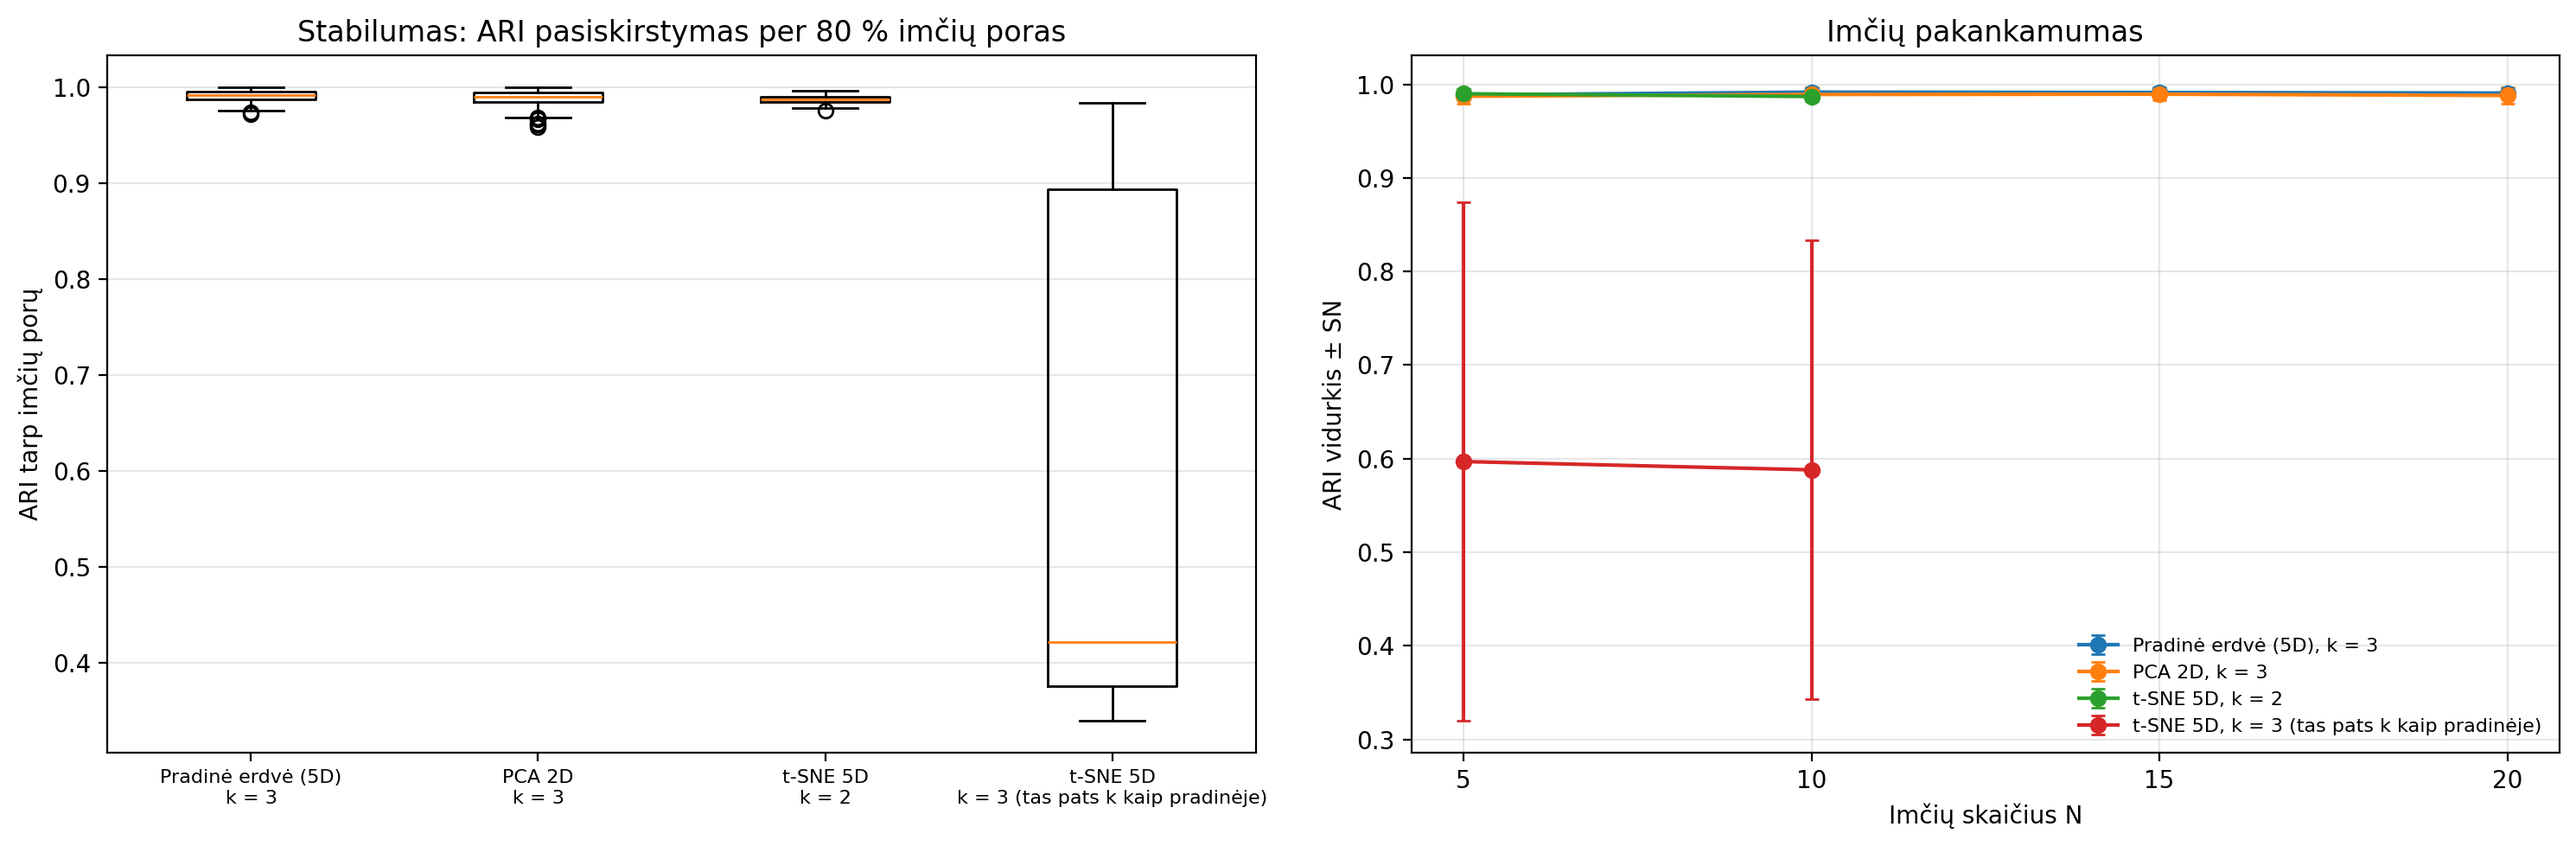
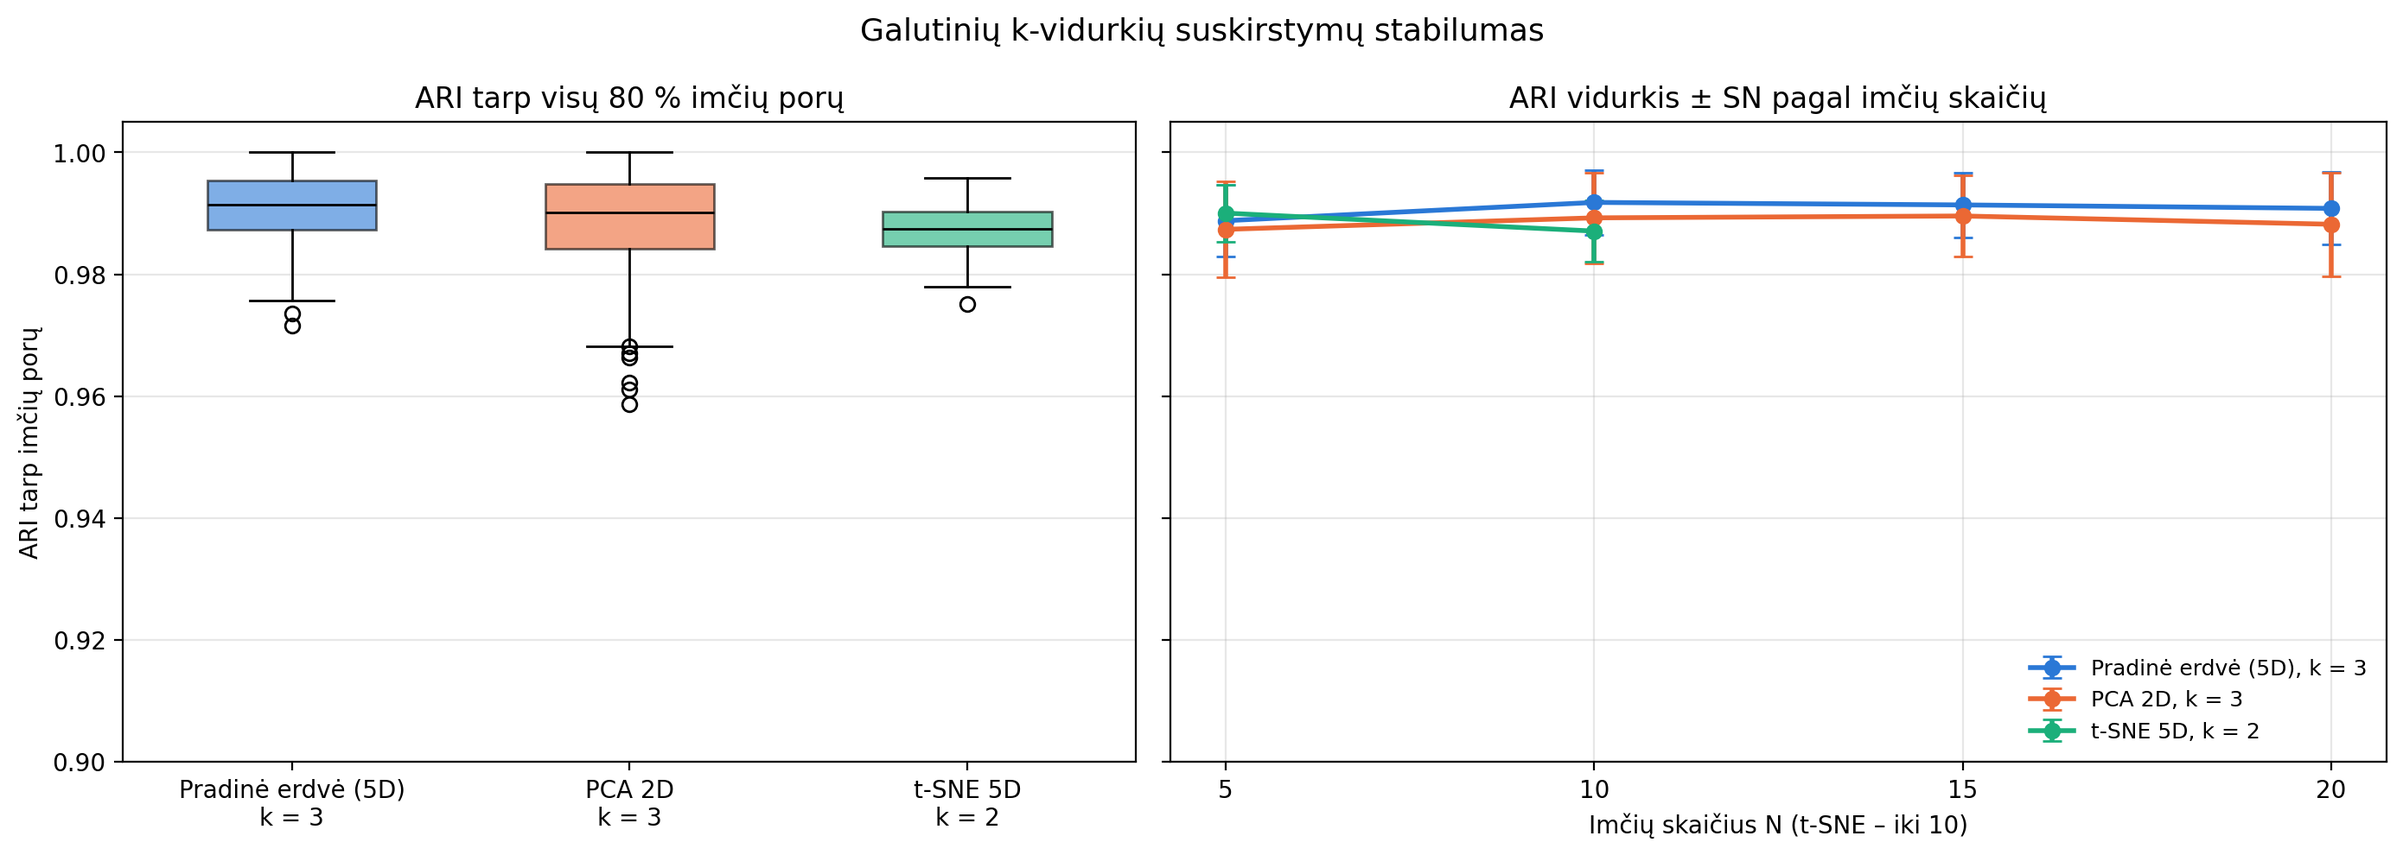
changing some graphs

diff --git a/kmeans/kmeans_final.py b/kmeans/kmeans_final.py
@@ -12,6 +12,7 @@ import evaluation as ev
 PARAMS = {"init": "k-means++", "n_init": 10, "atstumas": "euclidean"}
 FINAL_DIR = OUTPUT_DIR / "galutiniai"
 K_REFERENCE = CHOSEN_K[REFERENCE]
+SAME_K_NOTE = " (tas pats k kaip pradinėje)"
 
 
 def final_runs():
@@ -28,7 +29,7 @@ def run_name(space, k):
 
 
 def run_title(space, k):
-    extra = " (tas pats k kaip pradinėje)" if k != CHOSEN_K[space] else ""
+    extra = SAME_K_NOTE if k != CHOSEN_K[space] else ""
     return f"{SPACE_NAMES[space]}, k = {k}{extra}"
 
 
@@ -94,27 +95,36 @@ def plot_final(results, background):
 
 
 def plot_stability(stability_pairs, by_n):
-    names = list(dict.fromkeys(stability_pairs["variantas"]))
-    fig, (left, right) = plt.subplots(1, 2, figsize=(15, 5))
+    names = [name for name in dict.fromkeys(stability_pairs["variantas"])
+             if not name.endswith(SAME_K_NOTE)]
+    colours = dict(zip(names, ["#2a78d6", "#eb6834", "#1baf7a"]))
+    fig, (left, right) = plt.subplots(1, 2, figsize=(14, 5), sharey=True,
+                                      gridspec_kw={"width_ratios": [1, 1.2]})
 
-    left.boxplot([stability_pairs.loc[stability_pairs["variantas"] == name, "ari"]
-                  for name in names], tick_labels=[name.replace(", ", "\n", 1) for name in names])
+    parts = left.boxplot([stability_pairs.loc[stability_pairs["variantas"] == name, "ari"]
+                          for name in names],
+                         tick_labels=[name.replace(", ", "\n", 1) for name in names],
+                         patch_artist=True, widths=0.5,
+                         medianprops={"color": "black"})
+    for patch, name in zip(parts["boxes"], names):
+        patch.set_facecolor(colours[name])
+        patch.set_alpha(0.6)
+    left.set_ylim(0.9, 1.005)
     left.set_ylabel("ARI tarp imčių porų")
-    left.set_title("Stabilumas: ARI pasiskirstymas per 80 % imčių poras")
-    left.tick_params(axis="x", labelsize=8)
+    left.set_title("ARI tarp visų 80 % imčių porų")
     left.grid(alpha=0.3, axis="y")
 
     for name in names:
         data = by_n[by_n["variantas"] == name]
         right.errorbar(data["N"], data["vidurkis"], yerr=data["sn"], fmt="o-",
-                       capsize=3, label=name)
+                       capsize=4, linewidth=2, color=colours[name], label=name)
     right.set_xticks([5, 10, 15, 20])
-    right.set_xlabel("Imčių skaičius N")
-    right.set_ylabel("ARI vidurkis ± SN")
-    right.set_title("Imčių pakankamumas")
-    right.legend(fontsize=8, frameon=False)
+    right.set_xlabel("Imčių skaičius N (t-SNE – iki 10)")
+    right.set_title("ARI vidurkis ± SN pagal imčių skaičių")
+    right.legend(fontsize=9, frameon=False, loc="lower right")
     right.grid(alpha=0.3)
 
+    fig.suptitle("Galutinių k-vidurkių suskirstymų stabilumas", fontsize=13)
     fig.tight_layout()
     save_figure(fig, "galutiniai_stabilumas.png")
 
